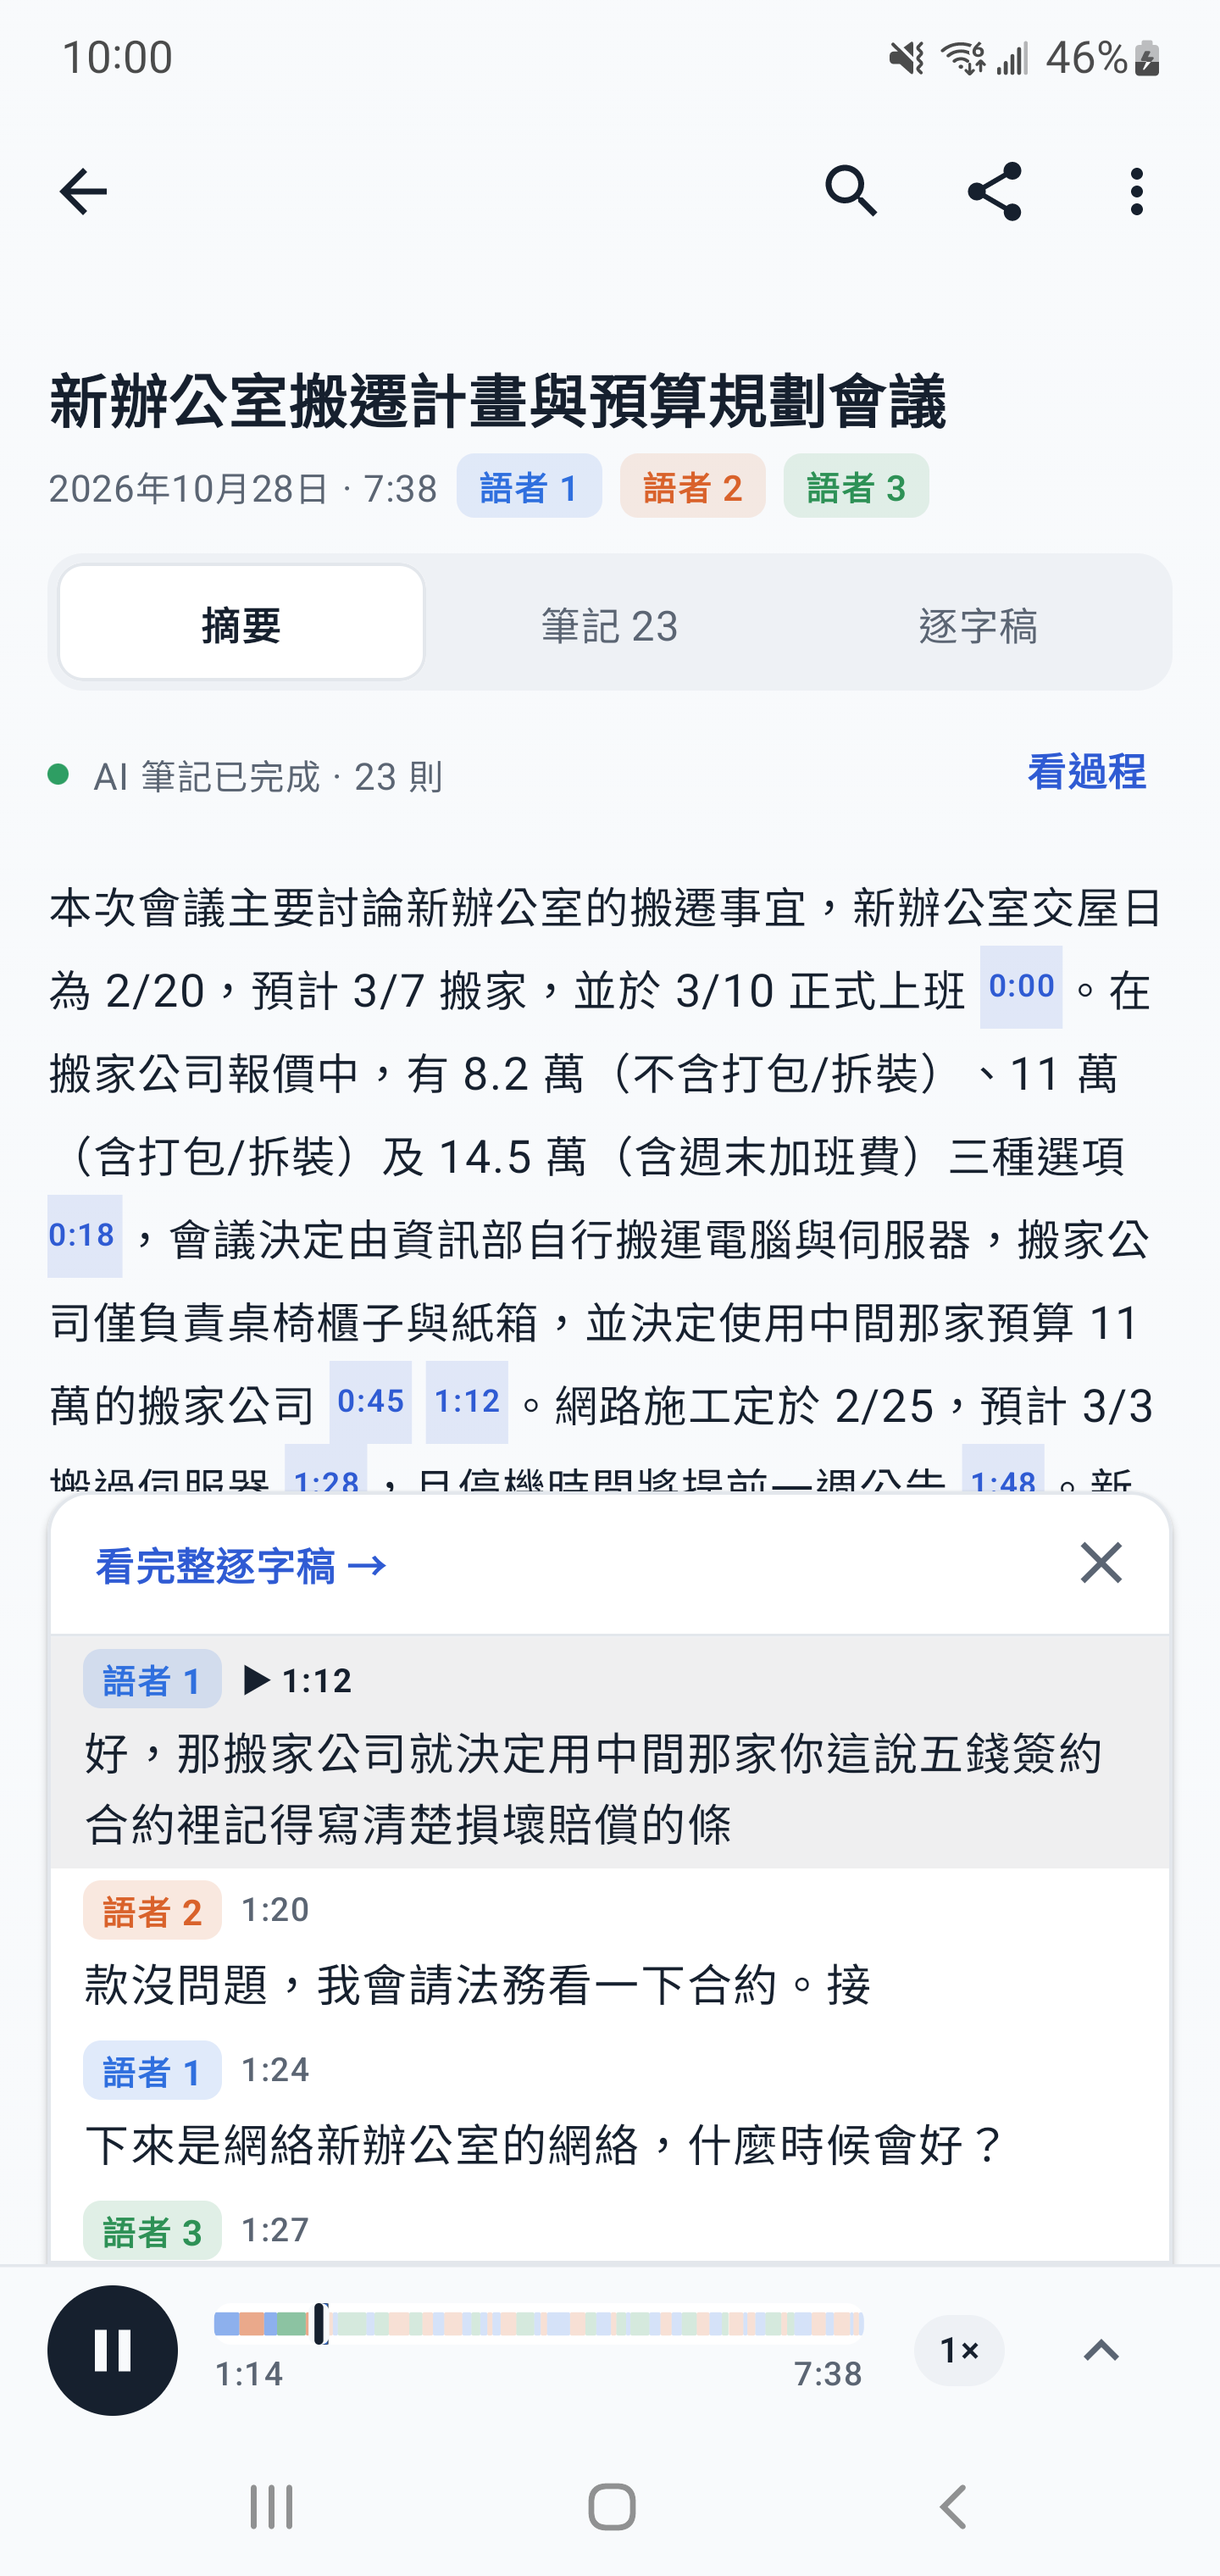
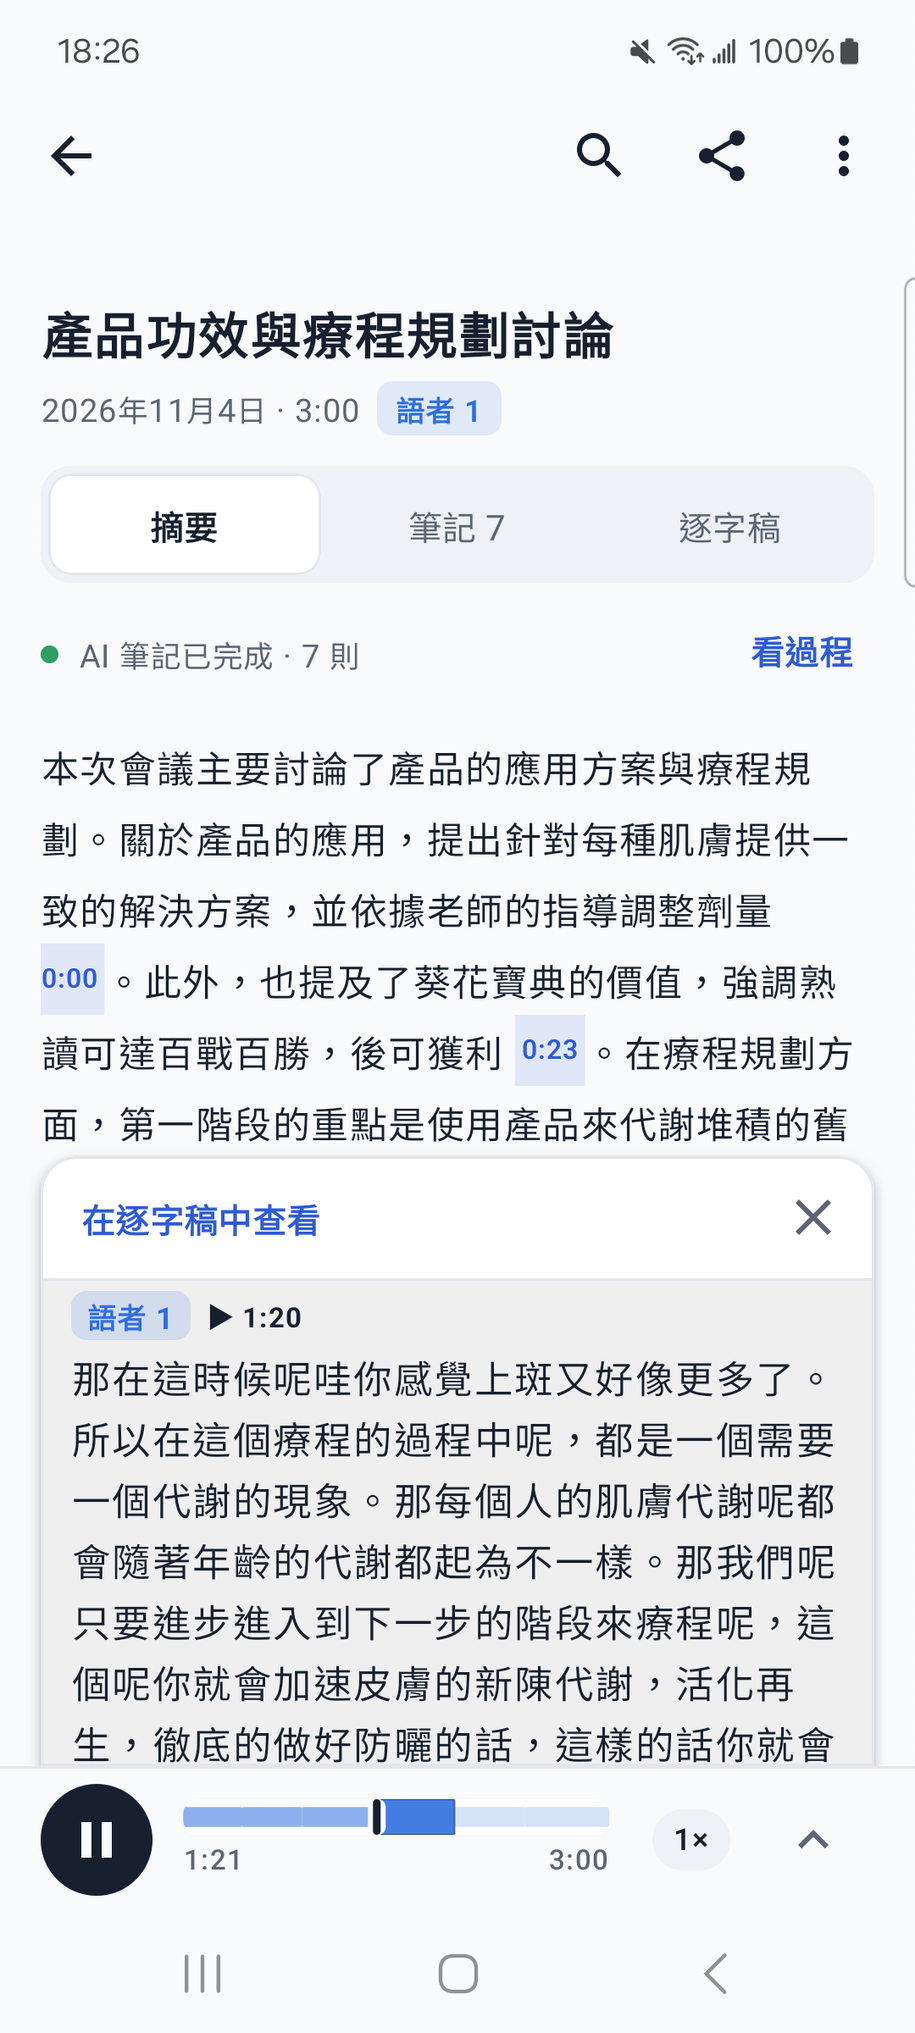
docs(android): citation preview button and search-hit behaviour after the search fix
Reshoot guide/70-citation-preview.png with the 「在逐字稿中查看」 button (Galaxy A53),
and update USER_GUIDE: search hits open the citation preview with the player parked at
the line, the button jumps to the transcript, the keyboard Search key only closes the
keyboard, and Ask opens only from its own button.

diff --git a/docs/USER_GUIDE.md b/docs/USER_GUIDE.md
@@ -52,9 +52,9 @@ flowchart TD
 
 | 節點 | 如何到達 | 預期結果 | 驗證 |
 |---|---|---|---|
-| 搜尋會議、主題、「誰說過…」 | 首頁上方輸入框 | 立即依標題與關鍵字篩選；停頓後依語意比對段落、筆記與摘要，符合的段落（≈，附時間與語者）列在會議下方，點段落從該處播放；語意比對進行中且還沒有結果時顯示「搜尋中…」，比對完仍沒有結果才顯示「沒有符合搜尋的會議。」 | ✅ 手動（Note 10+）、✅ 自動（EmbedDeviceTest.hybridSearch） |
+| 搜尋會議、主題、「誰說過…」 | 首頁上方輸入框 | 立即依標題與關鍵字篩選；停頓後依語意比對段落、筆記與摘要，符合的段落（≈，附時間與語者）列在會議下方，點段落開啟該會議並跳出 **原話預覽**（播放位置停在那句，不自動播放），按 **在逐字稿中查看** 才跳到逐字稿；鍵盤的 **搜尋** 鍵只收起鍵盤、保留結果，不會提問；語意比對進行中且還沒有結果時顯示「搜尋中…」，比對完仍沒有結果才顯示「沒有符合搜尋的會議。」 | ✅ 手動（Note 10+）、✅ 自動（EmbedDeviceTest.hybridSearch） |
 | 依語意搜尋 — 下載模型 | 搜尋模型未下載時，搜尋框下方 | 下載約 160 MB 後，閒置時為既有會議建立索引（「正在建立索引…」） | ✅ 手動 |
-| 提問 | 搜尋框右側；AI 筆記模型與搜尋模型都已下載時出現（設定 › 向會議提問，預設開啟） | 搜尋框有文字時直接提問，空白時開啟提問面板（第 1a 節） | ✅ 手動（Note 10+） |
+| 提問 | 搜尋框右側；AI 筆記模型與搜尋模型都已下載時出現（設定 › 向會議提問，預設開啟） | 搜尋框有文字時直接提問，空白時開啟提問面板（第 1a 節）；只有點這個按鈕才會提問 | ✅ 手動（Note 10+、Galaxy A53） |
 | 未偵測到語音 | 沒有說話的錄音處理完後 | 麥克風關閉圖示；不列在「已完成」篩選；點開可看錄音 | ✅ 手動（Note 10+） |
 | 來源晶片 全部／會議／Podcast／收到的 | 場次庫有兩種以上來源時出現 | 只列出該來源的場次；選 Podcast 時單集依節目分組，點節目標題開啟節目頁（第 4a 節） | ✅ 手動（Galaxy A53） |
 | 篩選晶片 新／已完成 | 有「新」場次時出現，在來源之內篩選 | 只列出該狀態的場次；全部已完成時晶片不顯示 | ✅ 手動 |
@@ -292,7 +292,7 @@ App 不登入任何帳號，也不直接上傳到雲端。
 | 筆記時間／核對 | 筆記上 | 從該時間播放 | ✅ 手動 |
 | 編輯摘要（鉛筆） | 摘要卡右上 | 編輯摘要，儲存／取消 | ✅ 手動 |
 | 複製摘要 | 摘要卡右上 | 提示「已複製摘要」 | ✅ 手動 |
-| 摘要中的時間點 | 藍色時間 | 從該時間播放，播放器上方跳出 **原話預覽**：被引用的那句反白，其後幾句跟著播放捲動；**看完整逐字稿 →** 跳到逐字稿分頁的同一句，✕ 或一段時間沒操作就收起 | ✅ 手動（Note 10+） |
+| 摘要中的時間點 | 藍色時間 | 從該時間播放，播放器上方跳出 **原話預覽**：被引用的那句反白，其後幾句跟著播放捲動；**在逐字稿中查看** 跳到逐字稿分頁的同一句，✕ 或一段時間沒操作就收起 | ✅ 手動（Note 10+） |
 | 語者標籤 | 檢視 | 頁首顯示各語者標籤 | ✅ 手動 |
 | 英文會議 | 匯入或錄製英文會議 | 筆記、標題、摘要與紀錄標題為英文；從會議開頭起，同意的事項即標為決議，語氣保留的說法（如 “we could…”）仍為提議；中文會議不變（語言依逐字稿判斷，設定的語言只切換繁／簡） | ✅ 手動（Note 10+、iPhone 14 Pro Max，E2B，英文與中文會議各一） |
 
@@ -324,12 +324,12 @@ App 不登入任何帳號，也不直接上傳到雲端。
 
 <img src="screenshots/meeting-search-zh.png" width="270" alt="搜尋這場會議：AI 筆記與逐字稿的結果清單"> <img src="screenshots/meeting-ask-zh.png" width="270" alt="問這場會議：只根據這場會議的段落作答"> <img src="screenshots/meeting-search-ask.gif" width="270" alt="在辦公室搬遷會議內搜尋「誰負責通知客戶新地址」，點 ✦ 問這場會議，回答指出「語者 2」並附上出處（等待段 ×4）">
 
-搜尋列下方列出這場會議符合的 **AI 筆記** 與 **逐字稿** 句子（各依時間排序，標示 **≈** 的是依語意找到的）；點一筆就捲到那句並把播放位置停在那裡。**✦**（搜尋列、結果清單最後一列、⋮ 選單的「問這場會議」）只拿這場會議的段落作答，不會被其他相似的會議搶走出處；出處只顯示時間。設計與預設值：[docs/design/in-session-search-ask.md](design/in-session-search-ask.md)。英文介面：[搜尋](screenshots/meeting-search-en.png)、[提問](screenshots/meeting-ask-en.png)（AMI 公開會議）。
+搜尋列下方列出這場會議符合的 **AI 筆記** 與 **逐字稿** 句子（各依時間排序，標示 **≈** 的是依語意找到的）；點一筆會跳出和摘要時間標籤一樣的 **原話預覽**，播放位置停在那句開頭（不自動播放），想看前後文再按 **在逐字稿中查看** 跳到逐字稿的那一句。鍵盤上的 **搜尋** 鍵只會收起鍵盤，結果照樣留著；要提問請點 **✦**。**✦**（搜尋列、結果清單最後一列、⋮ 選單的「問這場會議」）只拿這場會議的段落作答，不會被其他相似的會議搶走出處；出處只顯示時間。設計與預設值：[docs/design/in-session-search-ask.md](design/in-session-search-ask.md)。英文介面：[搜尋](screenshots/meeting-search-en.png)、[提問](screenshots/meeting-ask-en.png)（AMI 公開會議）。
 
 | 節點 | 如何到達 | 預期結果 | 驗證 |
 |---|---|---|---|
 | 結果清單 | 頂端放大鏡 → 輸入 | AI 筆記・N、逐字稿・N 兩組，各附時間；可用清單鈕收合／展開；最多 50 筆 | ✅ 手動（Note 10+、模擬器、iPhone 14 Pro Max） |
-| 點結果 | 結果清單 | 清單收合，逐字稿捲到該句（筆記的 m:ss 對到以該時間顯示的那句）並標為播放中，播放位置停在該句開頭（不自動播放） | ✅ 手動（Note 10+：關鍵字筆記、≈ 筆記、關鍵字句子、≈ 句子各一）、✅ 自動（單元測試：筆記 3:22 對到 202.4 秒那句、播放位置不落在上一句） |
+| 點結果 | 結果清單 | 清單收合，跳出原話預覽（筆記的 m:ss 對到涵蓋該時間的那句），播放位置停在該句開頭（不自動播放）；**在逐字稿中查看** 捲到逐字稿的那句 | ✅ 手動（Galaxy A53：關鍵字筆記、關鍵字句子、場次庫段落）、✅ 自動（單元測試：筆記 3:22 對到 202.4 秒那句、播放位置不落在上一句） |
 | ≈ 依語意 | 搜尋列的 ≈ | 加入依語意找到的筆記與句子（標 ≈）；會議尚未建立索引時不顯示 ≈ | ✅ 手動（Note 10+） |
 | 問這場會議 | ✦ 或 ⋮ → 問這場會議 | 「正在搜尋這場會議…」→ 答案，出處為這場會議的時間；點出處回到逐字稿該處 | ✅ 手動（Note 10+、模擬器、iPhone 14 Pro Max） |
 | 尚未建立索引 | 沒有搜尋模型，或索引尚未完成 | 仍可提問（只用關鍵字找段落），同時在背景建立索引 | ✅ 手動（模擬器） |
